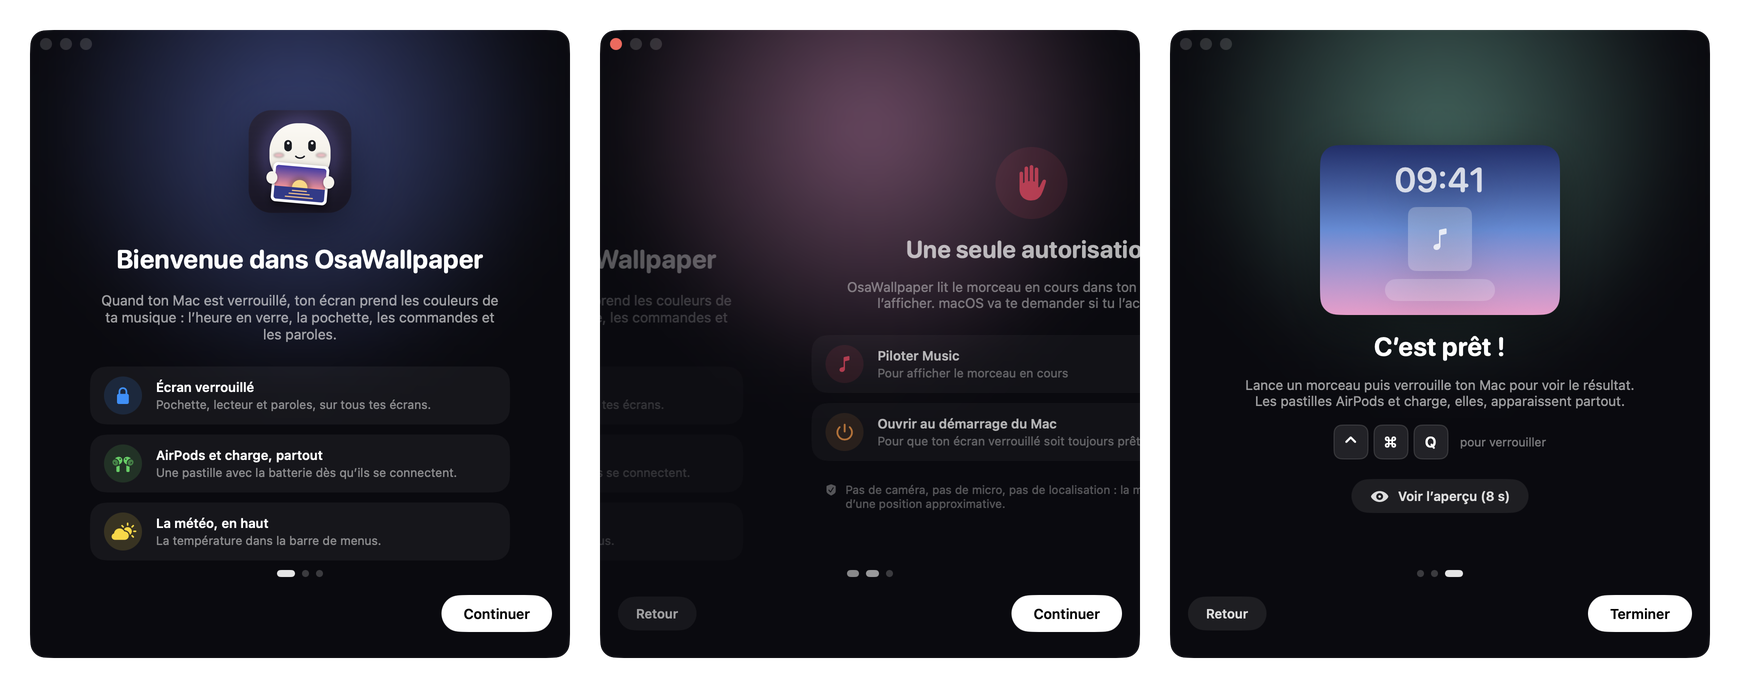
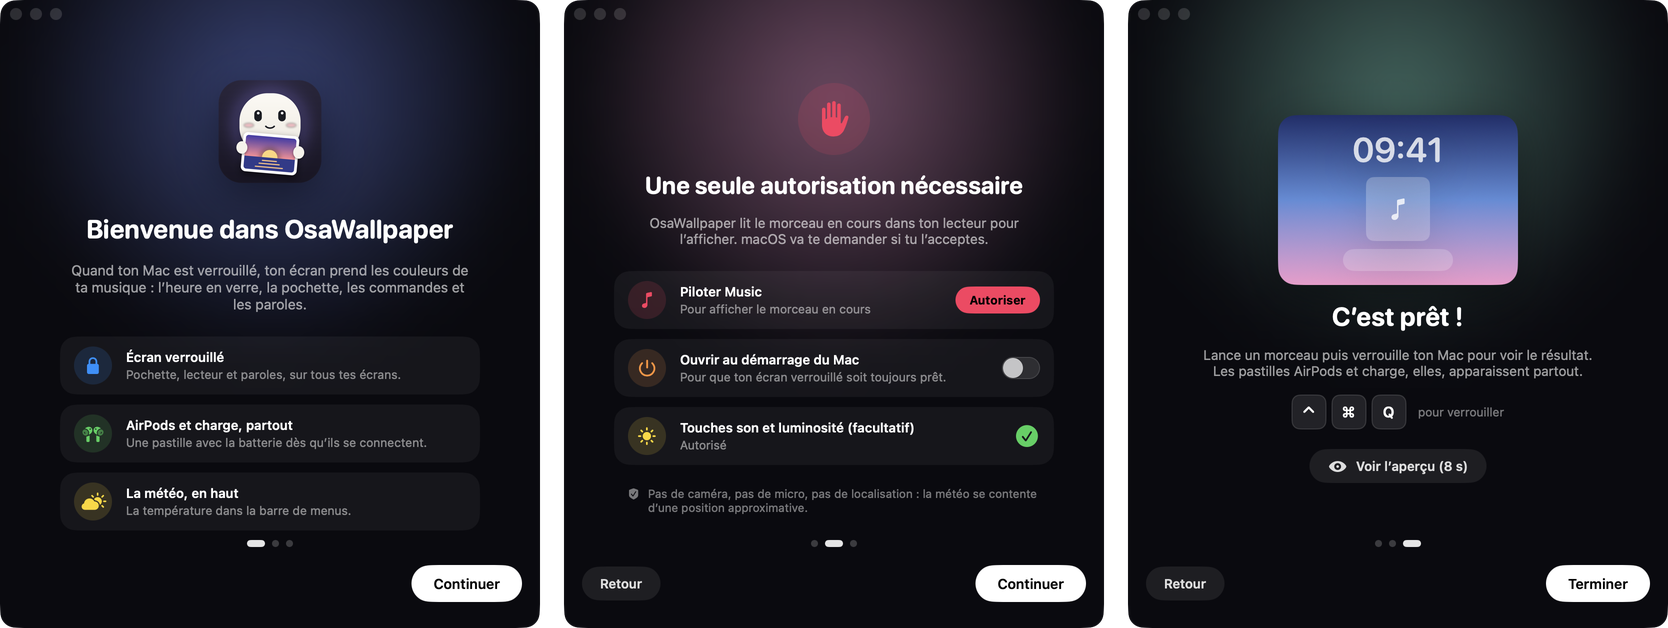
Fond flouté précalculé dans la galerie, mode démo isolé, nouvelles captures
- l'ambiance de la galerie : miniature réduite et floutée une fois (Core Image)
  au lieu d'un flou en direct de 90 px sur toute la fenêtre
- démo : dossier de fonds séparé, photos et noms locaux (captures pour le site)
- README : vraies captures avec des photos libres de droits (CC0)

diff --git a/Sources/OsaWallpaper/GalleryView.swift b/Sources/OsaWallpaper/GalleryView.swift
@@ -1,6 +1,7 @@
 import SwiftUI
 import AppKit
 import UniformTypeIdentifiers
+import CoreImage
 
 // Fenêtre « Fonds d'écran » : une grande base de photos HD, les vidéos aériennes d'Apple,
 // un lien (YouTube, .mp4) ou un fichier du Mac. Aperçu à droite, sur une maquette de l'écran verrouillé.
@@ -59,6 +60,9 @@ final class GalleryModel: ObservableObject {
                 page = next; lastPage = r.meta.last_page
                 let seen = Set(photos.map(\.id))
                 photos += r.data.filter { !seen.contains($0.id) }
+                if Demo.on, selected == nil, let i = ProcessInfo.processInfo.environment["OSAWALLPAPER_DEMO_SELECT"].flatMap(Int.init), i < photos.count {
+                    selected = photos[i].wallpaper(PhotoNames.shared.names[photos[i].id])
+                }
             } catch {
                 if g == gen { photoError = "Impossible de charger les photos. Vérifie ta connexion, puis réessaie." }
             }
@@ -97,8 +101,7 @@ struct GalleryView: View {
         ZStack {
             Color(red: 0.04, green: 0.04, blue: 0.06)
             // l'ambiance de la fenêtre suit le fond sélectionné
-            Thumb(url: shown?.thumb, fallback: fallbackThumb(shown))
-                .blur(radius: 90).scaleEffect(1.4).opacity(0.28).saturation(1.3)
+            Ambient(url: shown?.thumb ?? fallbackThumb(shown)).opacity(0.34)
                 .animation(.easeInOut(duration: 0.6), value: shown?.id)
             HStack(spacing: 0) {
                 VStack(spacing: 0) {
@@ -315,6 +318,38 @@ struct GalleryView: View {
                 }
             }
         }
+    }
+}
+
+/// Fond d'ambiance : la miniature réduite à 96 px puis floutée une seule fois (Core Image).
+/// Bien moins coûteux qu'un flou en direct de 90 px sur toute la fenêtre.
+struct Ambient: View {
+    let url: URL?
+    @State private var image: NSImage?
+    @MainActor private static var cache: [URL: NSImage] = [:]
+
+    var body: some View {
+        Color.clear
+            .overlay { if let image { Image(nsImage: image).resizable().aspectRatio(contentMode: .fill).id(url).transition(.opacity) } }
+            .clipped()
+            .task(id: url) {
+                guard let url else { image = nil; return }
+                if let c = Self.cache[url] { image = c; return }
+                guard let (d, _) = try? await URLSession.shared.data(from: url) else { return }
+                let img = await Task.detached { Self.blurred(d) }.value
+                if let img { Self.cache[url] = img; withAnimation(.easeInOut(duration: 0.5)) { image = img } }
+            }
+    }
+
+    nonisolated static func blurred(_ d: Data) -> NSImage? {
+        guard let ci = CIImage(data: d), ci.extent.width > 0 else { return nil }
+        let small = ci.transformed(by: CGAffineTransform(scaleX: 96 / ci.extent.width, y: 96 / ci.extent.width))
+        let out = small.clampedToExtent()
+            .applyingFilter("CIGaussianBlur", parameters: [kCIInputRadiusKey: 7])
+            .applyingFilter("CIColorControls", parameters: [kCIInputSaturationKey: 1.35])
+            .cropped(to: small.extent)
+        guard let cg = CIContext().createCGImage(out, from: out.extent) else { return nil }
+        return NSImage(cgImage: cg, size: out.extent.size)
     }
 }
 

diff --git a/Sources/OsaWallpaper/Wallpapers.swift b/Sources/OsaWallpaper/Wallpapers.swift
@@ -38,7 +38,7 @@ final class WallpaperStore: ObservableObject {
 
     static let dir: URL = {
         let d = FileManager.default.urls(for: .applicationSupportDirectory, in: .userDomainMask)[0]
-            .appendingPathComponent("OsaWallpaper/Wallpapers", isDirectory: true)
+            .appendingPathComponent(Demo.on ? "OsaWallpaper-Demo/Wallpapers" : "OsaWallpaper/Wallpapers", isDirectory: true)
         try? FileManager.default.createDirectory(at: d, withIntermediateDirectories: true)
         return d
     }()
@@ -250,6 +250,10 @@ enum Wallhaven {
     static let exclude = " -women -girl -anime -feet -legs -model -bikini -lingerie"
 
     static func search(_ q: String, page: Int) async throws -> Page {
+        // OSAWALLPAPER_DEMO_PHOTOS=<page.json> : photos locales (captures pour le site, photos libres de droits)
+        if Demo.on, let f = ProcessInfo.processInfo.environment["OSAWALLPAPER_DEMO_PHOTOS"] {
+            return try JSONDecoder().decode(Page.self, from: Data(contentsOf: URL(fileURLWithPath: f)))
+        }
         var c = URLComponents(string: "https://wallhaven.cc/api/v1/search")!
         c.queryItems = [
             .init(name: "q", value: q + exclude), .init(name: "categories", value: "100"), .init(name: "purity", value: "100"),

diff --git a/Sources/OsaWallpaper/PhotoNames.swift b/Sources/OsaWallpaper/PhotoNames.swift
@@ -30,6 +30,10 @@ final class PhotoNames: ObservableObject {
             raw = r
             names = r.mapValues { Self.name(from: $0.map { ($0[0], $0.count > 1 ? $0[1] : "") }) }
         }
+        if Demo.on, let f = ProcessInfo.processInfo.environment["OSAWALLPAPER_DEMO_TAGS"],
+           let d = try? Data(contentsOf: URL(fileURLWithPath: f)), let r = try? JSONDecoder().decode([String: [[String]]].self, from: d) {
+            for (k, v) in r { names[k] = Self.name(from: v.map { ($0[0], $0.count > 1 ? $0[1] : "") }) }
+        }
     }
 
     /// La photo est à l'écran : on veut son nom (en priorité si `urgent`, ex. sélectionnée).
@@ -72,7 +76,7 @@ final class PhotoNames: ObservableObject {
     }
 
     private func save() {
-        guard !dirty else { return }
+        guard !dirty, !Demo.on else { return }
         dirty = true
         DispatchQueue.main.asyncAfter(deadline: .now() + 3) { [weak self] in
             guard let self else { return }

diff --git a/Sources/OsaWallpaper/App.swift b/Sources/OsaWallpaper/App.swift
@@ -43,6 +43,7 @@ final class AppDelegate: NSObject, NSApplicationDelegate {
             DispatchQueue.main.asyncAfter(deadline: .now() + 19) { self.devices.show(.brightness(0.72), for: 3) }
             if ProcessInfo.processInfo.environment["OSAWALLPAPER_ONBOARDING"] != nil { openOnboarding() }
             if ProcessInfo.processInfo.environment["OSAWALLPAPER_GALLERY"] != nil { openGallery() }
+            if ProcessInfo.processInfo.environment["OSAWALLPAPER_OVER_MUSIC"] != nil { prefs.wallpaperOverMusic = true }
             // OSAWALLPAPER_APPLY=<fichier ou lien> : utilise ce fond tout de suite.
             if let a = ProcessInfo.processInfo.environment["OSAWALLPAPER_APPLY"] {
                 if FileManager.default.fileExists(atPath: a) { WallpaperStore.shared.importFile(URL(fileURLWithPath: a)) }

diff --git a/README.md b/README.md
@@ -17,7 +17,7 @@ Et partout ailleurs, tes AirPods, ta charge, le volume, la luminosité et la mé
 </div>
 
 <p align="center">
-  <img src=".github/assets/lockscreen.png" width="900" alt="L'écran verrouillé avec OsaWallpaper">
+  <img src=".github/assets/lockscreen.jpg" width="900" alt="L'écran verrouillé avec OsaWallpaper : la pochette, l'heure, les paroles et le lecteur">
 </p>
 <p align="center"><sub>Capture en mode démo (fond d’écran et connexion macOS simulés en bas) : la photo et le champ du mot de passe restent visibles.</sub></p>
 
@@ -41,12 +41,22 @@ Dès que tu déverrouilles, tout disparaît : ton bureau reste exactement comme 
 
 Menu OsaWallpaper → **Choisir un fond d’écran…** (⌘F) ouvre une galerie avec un aperçu en direct sur une maquette de l’écran verrouillé :
 
+<div align="center">
+  <img src=".github/assets/gallery.jpg" width="900" alt="La galerie de fonds d'écran">
+</div>
+
+
 - **Photos** : des milliers de fonds en 1440p minimum (souvent en 4K) venus de [Wallhaven](https://wallhaven.cc), filtrés « tout public ». Chaque photo a un nom en français tiré de ses mots-clés (« Lofoten, Norvège », « Mount Fuji, Japon ») et le nom de son photographe. La recherche comprend le français (« montagne enneigée », « aurore boréale », « Tokyo ») ; tu peux aussi choisir un thème : nature, montagnes, espace, océan, villes, nuit, etc.
 - **Vidéos Apple** : les vidéos aériennes de l’Apple TV et de l’économiseur d’écran (Terre, paysages, villes, sous l’eau), en 1080p et en boucle.
 - **Ton lien** : colle une vidéo **YouTube** (lue en direct par le lecteur officiel, en sourdine) ou un lien direct **.mp4 / .mov / .jpg / .png**. Tu peux aussi glisser un fichier depuis ton Mac.
 - **Mes fonds** : les 40 derniers fonds utilisés, pour revenir à l’un d’eux en un clic.
 
 Sans musique, l’écran verrouillé montre ton fond avec l’heure et la météo. Quand un morceau joue, tu choisis ce qui s’affiche : la pochette de l’album ou ton fond, avec le lecteur par-dessus.
+
+<div align="center">
+  <img src=".github/assets/lockscreen-photo.jpg" width="900" alt="Une photo de la Voie lactée en fond, avec l'heure et le lecteur">
+  <br><sub>Captures de l’app (mode démo). Photos d’exemple : CC0, Unsplash via Wikimedia Commons.</sub>
+</div>
 
 ## ✨ Partout, tout le temps
 
